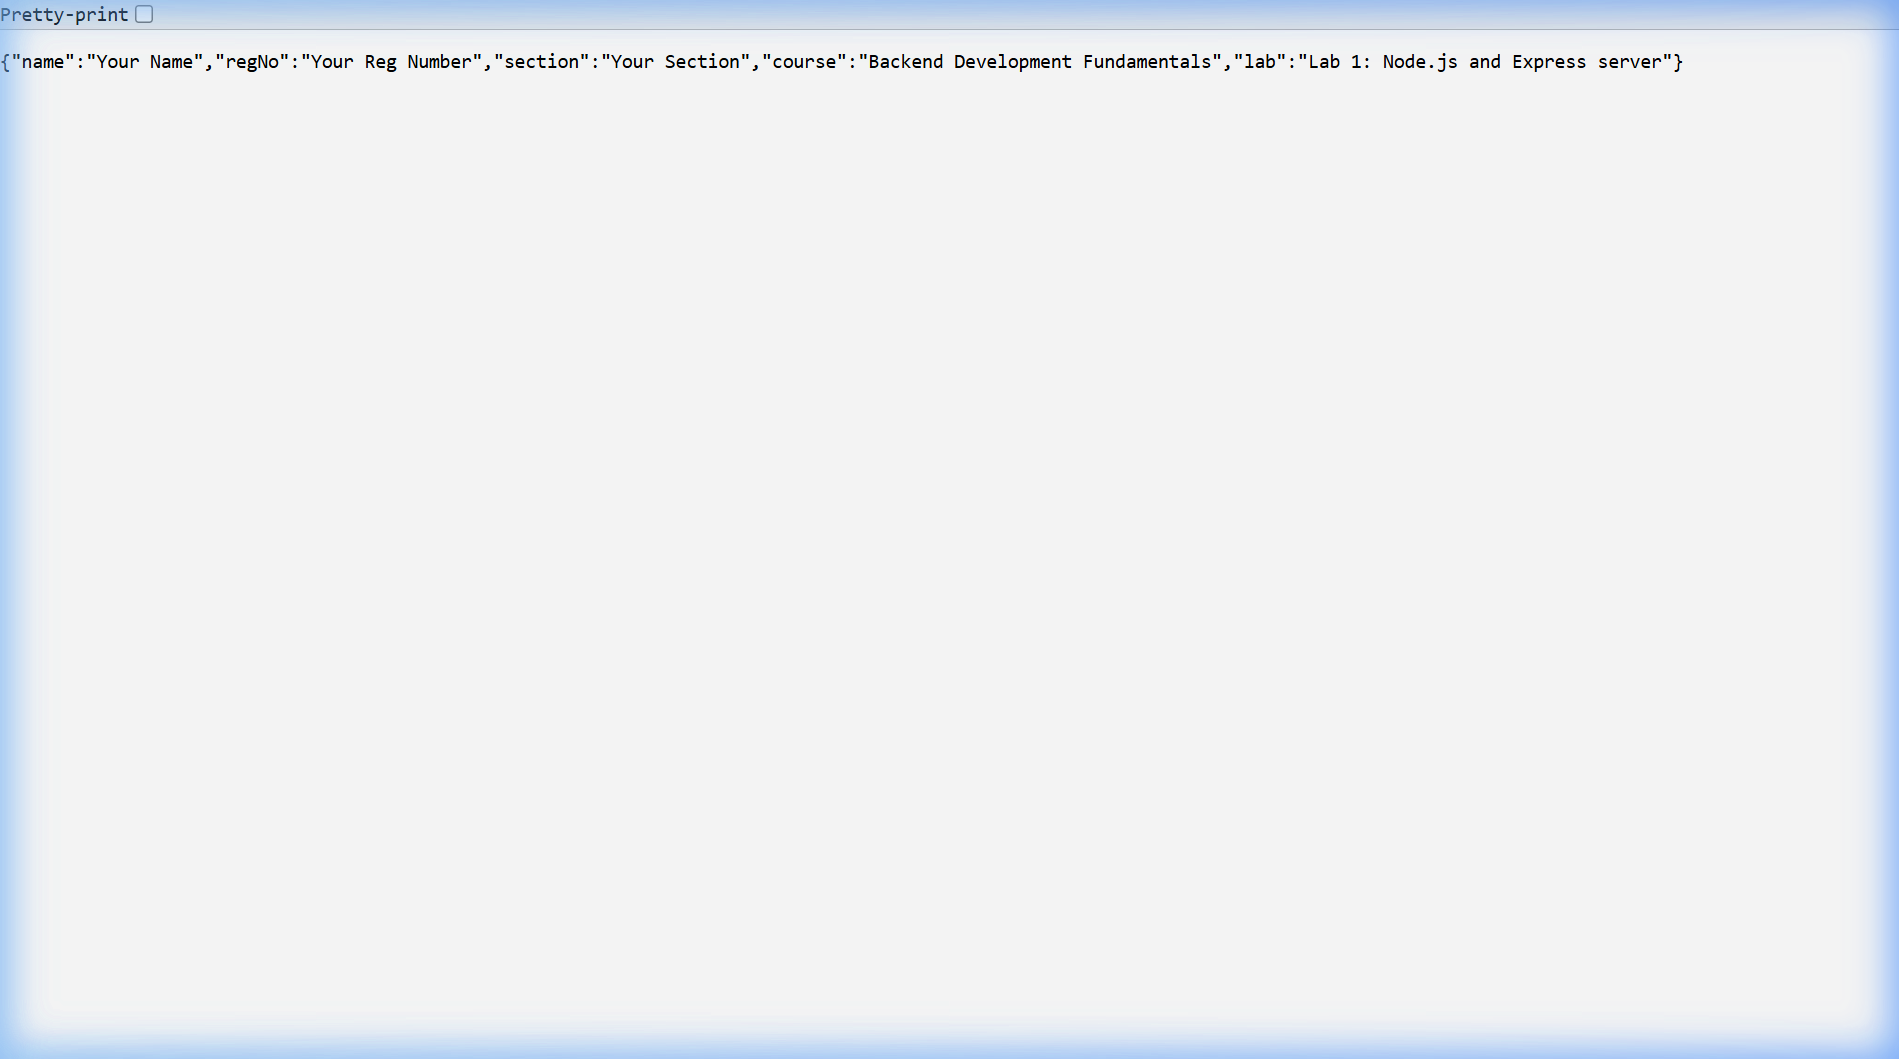
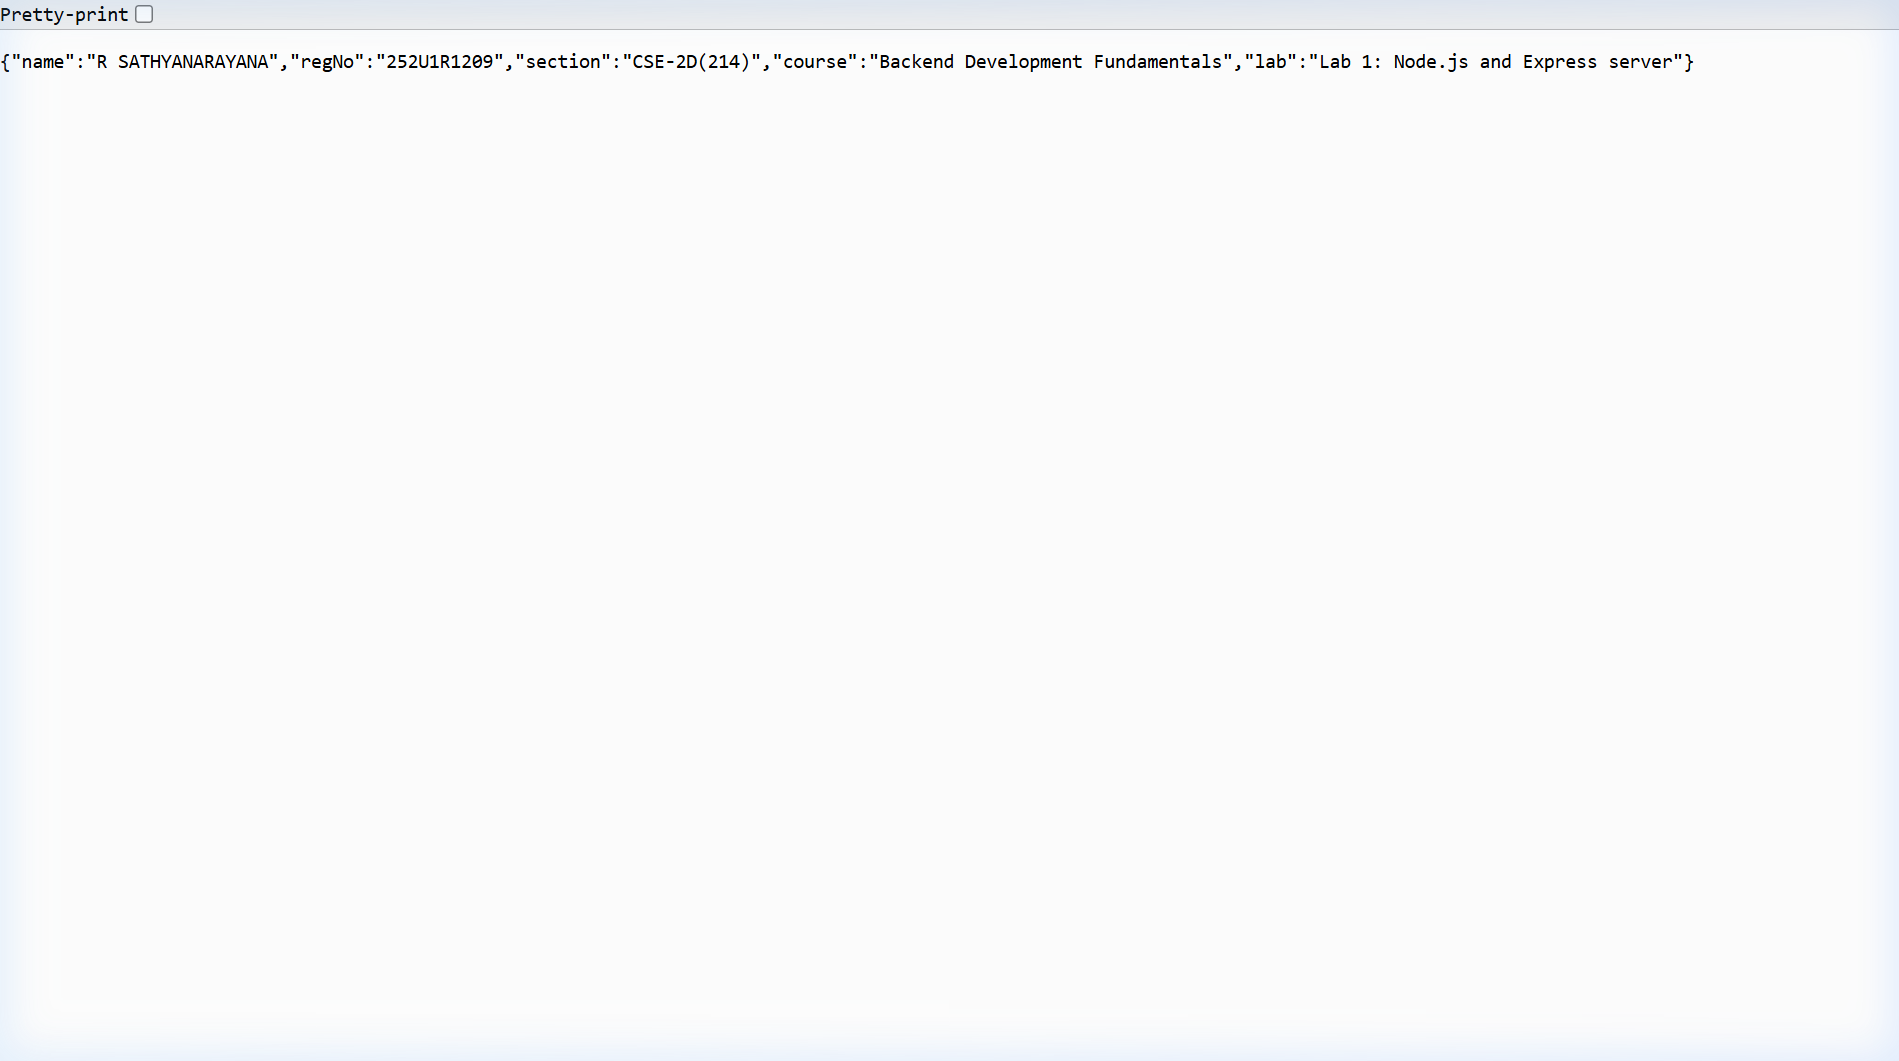
docs: update student credentials, live vercel link, and about screenshot

Changed region(s): [[0.0, 0.0, 1.0, 1.0]]

diff --git a/index.js b/index.js
@@ -19,9 +19,9 @@ app.get('/', (req, res) => {
 // Task 5: Route 2 - GET /about (JSON with name and section)
 app.get('/about', (req, res) => {
   res.status(200).json({
-    name: process.env.STUDENT_NAME || 'Your Name',
-    regNo: process.env.STUDENT_REG_NO || 'Your Reg Number',
-    section: process.env.STUDENT_SECTION || 'Your Section',
+    name: process.env.STUDENT_NAME || 'R SATHYANARAYANA',
+    regNo: process.env.STUDENT_REG_NO || '252U1R1209',
+    section: process.env.STUDENT_SECTION || 'CSE-2D(214)',
     course: 'Backend Development Fundamentals',
     lab: 'Lab 1: Node.js and Express server'
   });

diff --git a/README.md b/README.md
@@ -1,8 +1,8 @@
 # Lab 1: Node.js and Express server
 
-**Student Name:** [Your Name] · **Registration Number:** [Your Registration Number] · **Section:** [Your Section]  
+**Student Name:** R SATHYANARAYANA · **Registration Number:** 252U1R1209 · **Section:** CSE-2D(214)  
 **Course:** Backend Development Fundamentals (Year II Term II) · **Faculty:** Joel Prashanth D · **Institution:** Aurora  
-**Live Link:** [https://lab-1-express-server.onrender.com](https://lab-1-express-server.onrender.com) *(Update with your live Render/Railway URL if deployed, or state 'Local environment only')*
+**Live Link:** [https://backend-dev-fundamentals.vercel.app](https://backend-dev-fundamentals.vercel.app)
 
 ---
 
